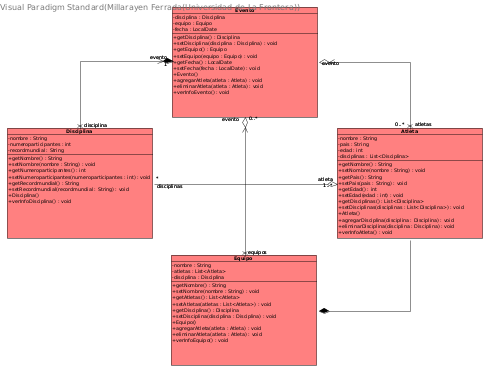
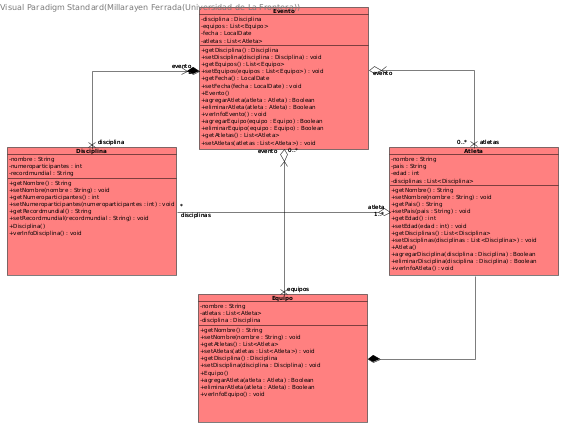
Corrección y modificación diagrama de clase, + creación de metodos en clases del problema

Changed region(s): [[0.0, 0.0, 1.0, 1.0]]

diff --git a/src/main/java/juegosolimpicos/Evento.java b/src/main/java/juegosolimpicos/Evento.java
@@ -1,11 +1,14 @@
 package juegosolimpicos;
 
 import java.time.LocalDate;
+import java.util.ArrayList;
 
 public class Evento {
 	private Disciplina disciplina;
-	private Equipo equipo;
+	private ArrayList<Equipo> equipos;
 	private LocalDate fecha;
+
+	private ArrayList<Atleta> atletas;
 
 	public Disciplina getDisciplina() {
 		return this.disciplina;
@@ -15,12 +18,12 @@ public class Evento {
 		this.disciplina = disciplina;
 	}
 
-	public Equipo getEquipo() {
-		return this.equipo;
+	public ArrayList<Equipo> getEquipos() {
+		return this.equipos;
 	}
 
-	public void setEquipo(Equipo equipo) {
-		this.equipo = equipo;
+	public void setEquipos(ArrayList<Equipo> equipos) {
+		this.equipos = equipos;
 	}
 
 	public LocalDate getFecha() {
@@ -31,16 +34,61 @@ public class Evento {
 		this.fecha = fecha;
 	}
 
+	public void setAtletas(ArrayList<Atleta> atletas) {
+		this.atletas = atletas;
+	}
+
+	public ArrayList<Atleta> getAtletas() {
+		return atletas;
+	}
+
 	public Evento() {
-		throw new UnsupportedOperationException();
+	}
+	public Evento(Disciplina disciplina, ArrayList<Equipo> equipos, LocalDate fecha){
+		this.disciplina = disciplina;
+		this.fecha = fecha;
+		this.equipos = equipos;
 	}
 
-	public void agregarAtleta(Atleta atleta) {
-		throw new UnsupportedOperationException();
+	public Boolean agregarAtleta(Atleta atleta) {
+		for (Atleta atletaexistente : atletas){
+			if (atletaexistente.getNombre().equals(atleta.getNombre())){
+				return false;
+			}
+		}
+		this.atletas.add(atleta);
+		return true;
 	}
 
-	public void eliminarAtleta(Atleta atleta) {
-		throw new UnsupportedOperationException();
+	public Boolean eliminarAtleta(Atleta atleta) {
+		for (Atleta atletaexistente : atletas){
+			if (atletaexistente.getNombre().equals(atleta.getNombre())){
+				this.atletas.remove(atleta);
+				return true;
+			}
+		}
+
+		return false;
+	}
+
+	public Boolean agregarEquipo(Equipo equipo) {
+		for (Equipo equipoexistente : equipos){
+			if (equipoexistente.getNombre().equals(equipo.getNombre())){
+				return false;
+			}
+		}
+		this.equipos.add(equipo);
+		return true;
+	}
+
+	public Boolean eliminarEquipo(Equipo equipo) {
+		for (Equipo equipoexistente : equipos){
+			if (equipoexistente.getNombre().equals(equipo.getNombre())){
+				this.equipos.remove(equipoexistente);
+				return true;
+			}
+		}
+		return false;
 	}
 
 	public void verInfoEvento() {

diff --git a/src/main/java/juegosolimpicos/Atleta.java b/src/main/java/juegosolimpicos/Atleta.java
@@ -6,10 +6,7 @@ public class Atleta {
 	private String nombre;
 	private String pais;
 	private int edad;
-	private ArrayList<Equipo> disciplinas;
-	public Equipo unnamed_Equipo_;
-	public Evento evento;
-
+	private ArrayList<Disciplina> disciplinas;
 	public String getNombre() {
 		return this.nombre;
 	}
@@ -35,26 +32,48 @@ public class Atleta {
 	}
 
 	public ArrayList<Disciplina> getDisciplinas() {
-		throw new UnsupportedOperationException();
+		return this.disciplinas;
 	}
 
 	public void setDisciplinas(ArrayList<Disciplina> disciplinas) {
-		throw new UnsupportedOperationException();
+		this.disciplinas = disciplinas;
 	}
 
 	public Atleta() {
-		throw new UnsupportedOperationException();
+	}
+	public Atleta(String nombre, String pais, int edad) {
+		this.nombre = nombre;
+		this.pais = pais;
+		this.edad = edad;
 	}
 
-	public void agregarDisciplina(Disciplina disciplina) {
-		throw new UnsupportedOperationException();
+	public Boolean agregarDisciplina(Disciplina disciplina) {
+		for (Disciplina disciplinaExistente : disciplinas){
+			if (disciplinaExistente.getNombre().equals(disciplina.getNombre())){
+				return false;
+			}
+		}
+		this.disciplinas.add(disciplina);
+		return true;
 	}
 
-	public void eliminarDisciplina(Disciplina disciplina) {
-		throw new UnsupportedOperationException();
+	public Boolean eliminarDisciplina(Disciplina disciplina) {
+		for (Disciplina disciplinaExistente : disciplinas){
+			if (disciplinaExistente.getNombre().equals(disciplina.getNombre())){
+				this.disciplinas.remove(disciplina);
+				return true;
+			}
+		}
+		return false;
 	}
 
 	public void verInfoAtleta() {
-		throw new UnsupportedOperationException();
+		System.out.println("Nombre: " + this.nombre);
+		System.out.println("Pais: " + this.pais);
+		System.out.println("Edad: " + this.edad);
+		System.out.println("Disciplinas:");
+		for (Disciplina disciplina : disciplinas){
+			System.out.println(disciplina.getNombre());
+		}
 	}
 }

diff --git a/src/main/java/juegosolimpicos/Equipo.java b/src/main/java/juegosolimpicos/Equipo.java
@@ -6,9 +6,6 @@ public class Equipo {
 	private String nombre;
 	private ArrayList<Atleta> atletas;
 	private Disciplina disciplina;
-	public ArrayList<Evento> evento = new ArrayList<Evento>();
-	public Atleta unnamed_Atleta_;
-
 	public String getNombre() {
 		return this.nombre;
 	}
@@ -18,11 +15,11 @@ public class Equipo {
 	}
 
 	public ArrayList<Atleta> getAtletas() {
-		throw new UnsupportedOperationException();
+		return this.atletas;
 	}
 
 	public void setAtletas(ArrayList<Atleta> atletas) {
-		throw new UnsupportedOperationException();
+		this.atletas = atletas;
 	}
 
 	public Disciplina getDisciplina() {
@@ -34,18 +31,39 @@ public class Equipo {
 	}
 
 	public Equipo() {
-		throw new UnsupportedOperationException();
+
+	}
+	public Equipo(String nombre, Disciplina disciplina){
+		this.nombre = nombre;
+		this.disciplina = disciplina;
 	}
 
-	public void agregarAtleta(Atleta atleta) {
-		throw new UnsupportedOperationException();
+	public Boolean agregarAtleta(Atleta atleta) {
+		for (Atleta atletaexistente : atletas){
+			if (atletaexistente.getNombre().equals(atleta.getNombre())){
+				return false;
+			}
+		}
+		this.atletas.add(atleta);
+		return true;
 	}
 
-	public void eliminarAtleta(Atleta atleta) {
-		throw new UnsupportedOperationException();
+	public Boolean eliminarAtleta(Atleta atleta) {
+		for (Atleta atletaexistente : atletas){
+			if (atletaexistente.getNombre().equals(atleta.getNombre())){
+				this.atletas.remove(atleta);
+				return true;
+			}
+		}
+		return false;
 	}
 
 	public void verInfoEquipo() {
-		throw new UnsupportedOperationException();
+		System.out.println("Nombre de equipo: " + this.nombre);
+		System.out.println("Disciplina: " + this.disciplina.getNombre());
+		System.out.println("Atletas:");
+		for (Atleta atleta : atletas){
+			System.out.println(atleta.getNombre());
+		}
 	}
 }

diff --git a/src/main/java/juegosolimpicos/Disciplina.java b/src/main/java/juegosolimpicos/Disciplina.java
@@ -6,8 +6,6 @@ public class Disciplina {
 	private String nombre;
 	private int numeroparticipantes;
 	private String recordmundial;
-	public ArrayList<Atleta> atleta = new ArrayList<Atleta>();
-	public Evento evento;
 
 	public String getNombre() {
 		return this.nombre;
@@ -34,10 +32,17 @@ public class Disciplina {
 	}
 
 	public Disciplina() {
-		throw new UnsupportedOperationException();
+	}
+
+	public Disciplina(String nombre, String recordmundial, int numeroparticipantes) {
+		this.nombre = nombre;
+		this.numeroparticipantes = numeroparticipantes;
+		this.recordmundial = recordmundial;
 	}
 
 	public void verInfoDisciplina() {
-		throw new UnsupportedOperationException();
+		System.out.println("Nombre de disciplina: " + this.nombre);
+		System.out.println("Número de participantes: " + this.numeroparticipantes);
+		System.out.println("Record mundial: " + this.recordmundial);
 	}
 }
